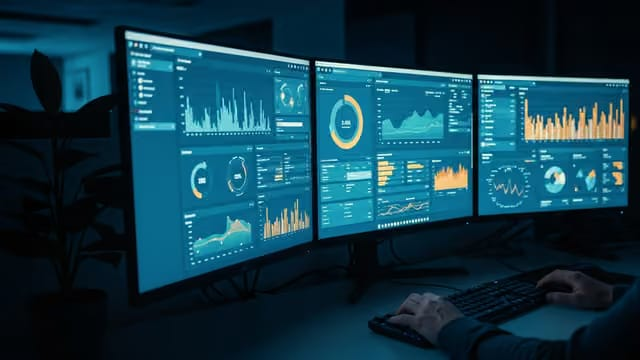
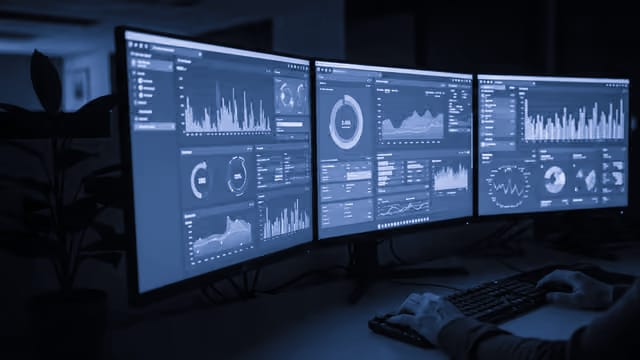
Put the showcase on a dark band, and drop the emoji marks
Two things were wrong with the photo cards.

The six sources did not agree on colour temperature — two near-black,
two blue, one warm orange — so the grid read as six unrelated pictures
rather than a set. They are now duotoned to one navy in
prepare-card-art.cjs.

That took a wrong turn worth recording: `greyscale().tint()` is the
obvious way to write a duotone and it silently does not work. sharp
orders its own pipeline rather than following call order, and greyscale
runs after tint, so the result was a plain grey image with the navy
discarded. `tint` alone maps onto luminance and is the duotone.

The bigger problem was the ground. Dark cards on the page's light ground
read as holes punched in it, and with the white integrations section
directly below, the eye crossed six separate dark-to-light edges going
down — which is what made the change into white feel abrupt. The cards
now sit on their own dark band with a hairline top and bottom, so they
are cards on a surface and there is one deliberate edge instead of six.
Card ground is night-soft against the band's night, a shade apart, or
the cards had only their hairline to say where they began.

The heading and the quote strip stay above it on the light ground, so
the page still opens light under a dark header rather than merging into
it. No height added by any of this.

The 3D emoji marks are gone. Over a photograph they read as clipart
pasted on, at odds with everything else on the page, and the photo is
[…]

diff --git a/src/components/sections/Software.tsx b/src/components/sections/Software.tsx
@@ -1,8 +1,7 @@
 import Image from "next/image";
 import Link from "next/link";
 import { ArrowRight } from "lucide-react";
-import { CategoryMark } from "@/components/software/CategoryMark";
-import { headGap, sectionPad, wideShell } from "@/components/software/layout";
+import { headGap, wideShell } from "@/components/software/layout";
 import { QuoteBand } from "@/components/software/QuoteCta";
 import { Reveal } from "@/components/ui/Reveal";
 import { SectionHead } from "@/components/ui/SectionHead";
@@ -16,15 +15,19 @@ import { software } from "@/lib/content";
  * count. A dentist, a jeweller and a warehouse manager should each find their
  * own word in a list and stop wondering.
  *
- * Each also carries a photograph of the work behind it and a 3D render of
- * its category in the top corner, which is what the flat lucide chip used
- * to be.
+ * The six cards sit on their own dark band rather than on the page's light
+ * ground. Dark cards on a light page read as holes punched in it, and with
+ * the white integrations section directly underneath, the eye crossed six
+ * separate dark-to-light edges on the way down. On a dark band they are
+ * cards on a surface, and there is one deliberate edge instead.
  *
- * The photograph is a background rather than a thumbnail: it sits in a 16:9
- * band across the top, under a scrim, and adds no height to the card. All
- * six sources happen to be dark, which is what makes white copy over them
- * safe — a lighter set would need the scrim raised or the art moved out from
- * under the text entirely.
+ * The heading and the quote strip stay above it on the light ground, so the
+ * page still opens light under a dark header rather than merging into it.
+ *
+ * The photographs are backgrounds, not thumbnails: a 16:9 band across the
+ * top of each card, under a scrim, adding no height. They are duotoned to
+ * one navy by scripts/prepare-card-art.cjs — the sources disagreed on colour
+ * temperature badly enough that the grid read as six unrelated pictures.
  *
  * No durations anywhere. A timeline printed on a card is a quote given before
  * anyone has described the job, and the number is either wrong or a hedge —
@@ -35,8 +38,9 @@ import { software } from "@/lib/content";
  */
 export function Software({ asPage = false }: { asPage?: boolean } = {}) {
   return (
-    <section id="software" className={sectionPad}>
-      <div className={wideShell}>
+    <section id="software">
+      {/* Heading and the ask, on the light ground -------------------- */}
+      <div className={`${wideShell} pt-14 sm:pt-16 lg:pt-20`}>
         <SectionHead
           as={asPage ? "h1" : "h2"}
           eyebrow={software.eyebrow}
@@ -52,42 +56,38 @@ export function Software({ asPage = false }: { asPage?: boolean } = {}) {
         <Reveal delay={160} className={headGap}>
           <QuoteBand compact />
         </Reveal>
+      </div>
 
-        <ul className="mt-4 grid gap-4 md:grid-cols-2 xl:grid-cols-3">
-          {software.services.map((service, i) => (
-            <Reveal as="li" key={service.title} delay={(i % 3) * 70}>
-              <article className="border-night-line bg-night card-hover relative flex h-full flex-col overflow-hidden rounded-[1.25rem] border p-5 text-white">
-                {/* Category art -------------------------------------- */}
-                <div
-                  className="pointer-events-none absolute inset-x-0 top-0 aspect-[16/9]"
-                  aria-hidden
-                >
-                  <Image
-                    src={service.art}
-                    alt=""
-                    fill
-                    sizes="(min-width: 1280px) 31vw, (min-width: 768px) 47vw, 92vw"
-                    className="object-cover"
-                  />
-                  {/* Knocked back, then melted into the card's own ground
-                      at the foot of the band so there is no visible edge. */}
-                  <div className="bg-night/55 absolute inset-0" />
-                  <div className="via-night/70 to-night absolute inset-0 bg-gradient-to-b from-transparent" />
-                </div>
+      {/* The showcase, on its own band ------------------------------- */}
+      <div className="border-night-line bg-night mt-12 border-y sm:mt-14">
+        <div className={`${wideShell} py-12 sm:py-14`}>
+          <ul className="grid gap-4 md:grid-cols-2 xl:grid-cols-3">
+            {software.services.map((service, i) => (
+              <Reveal as="li" key={service.title} delay={(i % 3) * 70}>
                 {/*
-                 * The 3D mark shares a flex row with the heading rather than
-                 * being absolutely positioned over it, unlike the photograph
-                 * above — which can be, because nothing has to keep clear of
-                 * a full-width band.
-                 *
-                 * Absolute was the first attempt here too, and it does not
-                 * survive real content: the right padding reserved for the
-                 * mark has to be guessed, and the guess only holds while the
-                 * heading stays on one line. As a row they cannot overlap at
-                 * any card width.
+                 * A shade lighter than the band it sits on, which is what
+                 * separates the two — on the same `night` the cards had only
+                 * their hairline to say where they started.
                  */}
-                <div className="relative flex items-start gap-3">
-                  <div className="min-w-0 flex-1">
+                <article className="border-night-line bg-night-soft card-hover relative flex h-full flex-col overflow-hidden rounded-[1.25rem] border p-5 text-white">
+                  <div
+                    className="pointer-events-none absolute inset-x-0 top-0 aspect-[16/9]"
+                    aria-hidden
+                  >
+                    <Image
+                      src={service.art}
+                      alt=""
+                      fill
+                      sizes="(min-width: 1280px) 31vw, (min-width: 768px) 47vw, 92vw"
+                      className="object-cover"
+                    />
+                    {/* Knocked back, then melted into the card's own ground
+                        at the foot of the band so there is no visible edge. */}
+                    <div className="bg-night-soft/45 absolute inset-0" />
+                    <div className="via-night-soft/70 to-night-soft absolute inset-0 bg-gradient-to-b from-transparent" />
+                  </div>
+
+                  <div className="relative">
                     <h3 className="text-[1.0625rem] font-semibold tracking-tight text-white">
                       {service.title}
                     </h3>
@@ -96,55 +96,42 @@ export function Software({ asPage = false }: { asPage?: boolean } = {}) {
                     </p>
                   </div>
 
-                  <div
-                    className="pointer-events-none relative -mt-2 -mr-2 size-[4.5rem] shrink-0 select-none sm:size-20"
-                    aria-hidden
-                  >
-                    <div className="bg-brand/25 absolute inset-3 rounded-full blur-xl" />
-                    <CategoryMark
-                      image={service.image}
-                      icon={service.icon}
-                      className="relative size-full"
-                      fallbackClassName="p-3"
-                    />
-                  </div>
-                </div>
+                  {/* The trades. Pushed to the bottom so cards of unequal
+                      copy length still line their chip blocks up. */}
+                  <div className="relative mt-4 flex flex-1 flex-col justify-end">
+                    <p className="text-[0.625rem] font-semibold tracking-[0.14em] text-white/45 uppercase">
+                      Built for
+                    </p>
+                    <ul className="mt-2 flex flex-wrap gap-1">
+                      {service.domains.map((domain) => (
+                        <li
+                          key={domain}
+                          className="rounded-md border border-white/12 bg-white/6 px-1.5 py-0.5 text-[0.6875rem] leading-[1.5] text-white/75"
+                        >
+                          {domain}
+                        </li>
+                      ))}
+                    </ul>
 
-                {/* The trades. Pushed to the bottom so cards of unequal
-                    copy length still line their chip blocks up. */}
-                <div className="relative mt-4 flex flex-1 flex-col justify-end">
-                  <p className="text-[0.625rem] font-semibold tracking-[0.14em] text-white/45 uppercase">
-                    Built for
-                  </p>
-                  <ul className="mt-2 flex flex-wrap gap-1">
-                    {service.domains.map((domain) => (
-                      <li
-                        key={domain}
-                        className="rounded-md border border-white/12 bg-white/6 px-1.5 py-0.5 text-[0.6875rem] leading-[1.5] text-white/75"
+                    {service.more && (
+                      <Link
+                        href={service.more.href}
+                        className="text-leaf group mt-4 inline-flex items-center gap-1.5 text-[0.8125rem] font-semibold"
                       >
-                        {domain}
-                      </li>
-                    ))}
-                  </ul>
-
-                  {service.more && (
-                    <Link
-                      href={service.more.href}
-                      className="text-leaf group mt-4 inline-flex items-center gap-1.5 text-[0.8125rem] font-semibold"
-                    >
-                      {service.more.label}
-                      <ArrowRight
-                        className="size-3.5 transition-transform duration-300 group-hover:translate-x-1"
-                        strokeWidth={2.25}
-                        aria-hidden
-                      />
-                    </Link>
-                  )}
-                </div>
-              </article>
-            </Reveal>
-          ))}
-        </ul>
+                        {service.more.label}
+                        <ArrowRight
+                          className="size-3.5 transition-transform duration-300 group-hover:translate-x-1"
+                          strokeWidth={2.25}
+                          aria-hidden
+                        />
+                      </Link>
+                    )}
+                  </div>
+                </article>
+              </Reveal>
+            ))}
+          </ul>
+        </div>
       </div>
     </section>
   );

diff --git a/src/lib/content/practices.ts b/src/lib/content/practices.ts
@@ -137,12 +137,6 @@ export type SoftwareBuild = IconCard & {
    */
   domains: string[];
   /**
-   * A 3D render for the category, as a path into Microsoft's Fluent
-   * Emoji set. components/software/CategoryMark.tsx is the only thing
-   * that turns it into a URL.
-   */
-  image: string;
-  /**
    * The photograph behind the card. Normalised to 16:9 by
    * scripts/prepare-card-art.cjs, which is also what put it in public/.
    */
@@ -218,7 +212,6 @@ export const software: {
       icon: "layout",
       title: "Portfolio & Profile Sites",
       art: "/software/portfolio.jpg",
-      image: "Identification card/3D/identification_card_3d.png",
       body: "The site that makes a real business look like one: who you are, what you do, proof that you do it, and one obvious way to get in touch. Edited by you afterwards, not by a support ticket.",
       domains: [
         "Doctors & clinics",
@@ -245,7 +238,6 @@ export const software: {
       icon: "cart",
       title: "E-commerce, Any Category",
       art: "/software/ecommerce.jpg",
-      image: "Shopping cart/3D/shopping_cart_3d.png",
       body: "Shopify when the platform is the sensible answer, a custom storefront when it is not. Catalogue, cart, checkout, coupons, returns, invoices and the shipping label at the end of it — the whole path, not the pretty half.",
       domains: [
         "Fashion & apparel",
@@ -272,7 +264,6 @@ export const software: {
       icon: "gauge",
       title: "Dashboards & Internal Tools",
       art: "/software/dashboards.jpg",
-      image: "Bar chart/3D/bar_chart_3d.png",
       body: "The screen that replaces the spreadsheet the whole company secretly runs on. Roles, approvals, audit trails, exports and reports that reconcile — built for the people who have to use it all day.",
       domains: [
         "Logistics & fleet",
@@ -295,7 +286,6 @@ export const software: {
       icon: "layers",
       title: "Web Applications & Platforms",
       art: "/software/platforms.jpg",
-      image: "Gear/3D/gear_3d.png",
       body: "Products rather than pages: accounts, permissions, payments, multi-tenancy, notifications and the twenty unglamorous things a demo never shows you. This is the half of the work that decides whether the thing survives its first hundred users.",
       domains: [
         "Booking & appointments",
@@ -316,7 +306,6 @@ export const software: {
       icon: "bot",
       title: "Agentic AI, Inside the Product",
       art: "/software/agentic-ai.jpg",
-      image: "Robot/3D/robot_3d.png",
       body: "Not a chatbot in the corner — agents with tools and permissions that read your data and take real actions. Including the ones we build for engineering teams: assistants that review code, write the tests, run the migration and document what they changed.",
       domains: [
         "Support & sales agents",
@@ -338,7 +327,6 @@ export const software: {
       icon: "smartphone",
       title: "Mobile-First & Mobile Apps",
       art: "/software/mobile.jpg",
-      image: "Mobile phone/3D/mobile_phone_3d.png",
       body: "Designed at 360px and up, because that is where your customers actually are. Installable web apps where a store listing is overhead, and real iOS and Android builds where the camera, GPS or offline use make it the only honest option.",
       domains: [
         "Delivery & live tracking",
